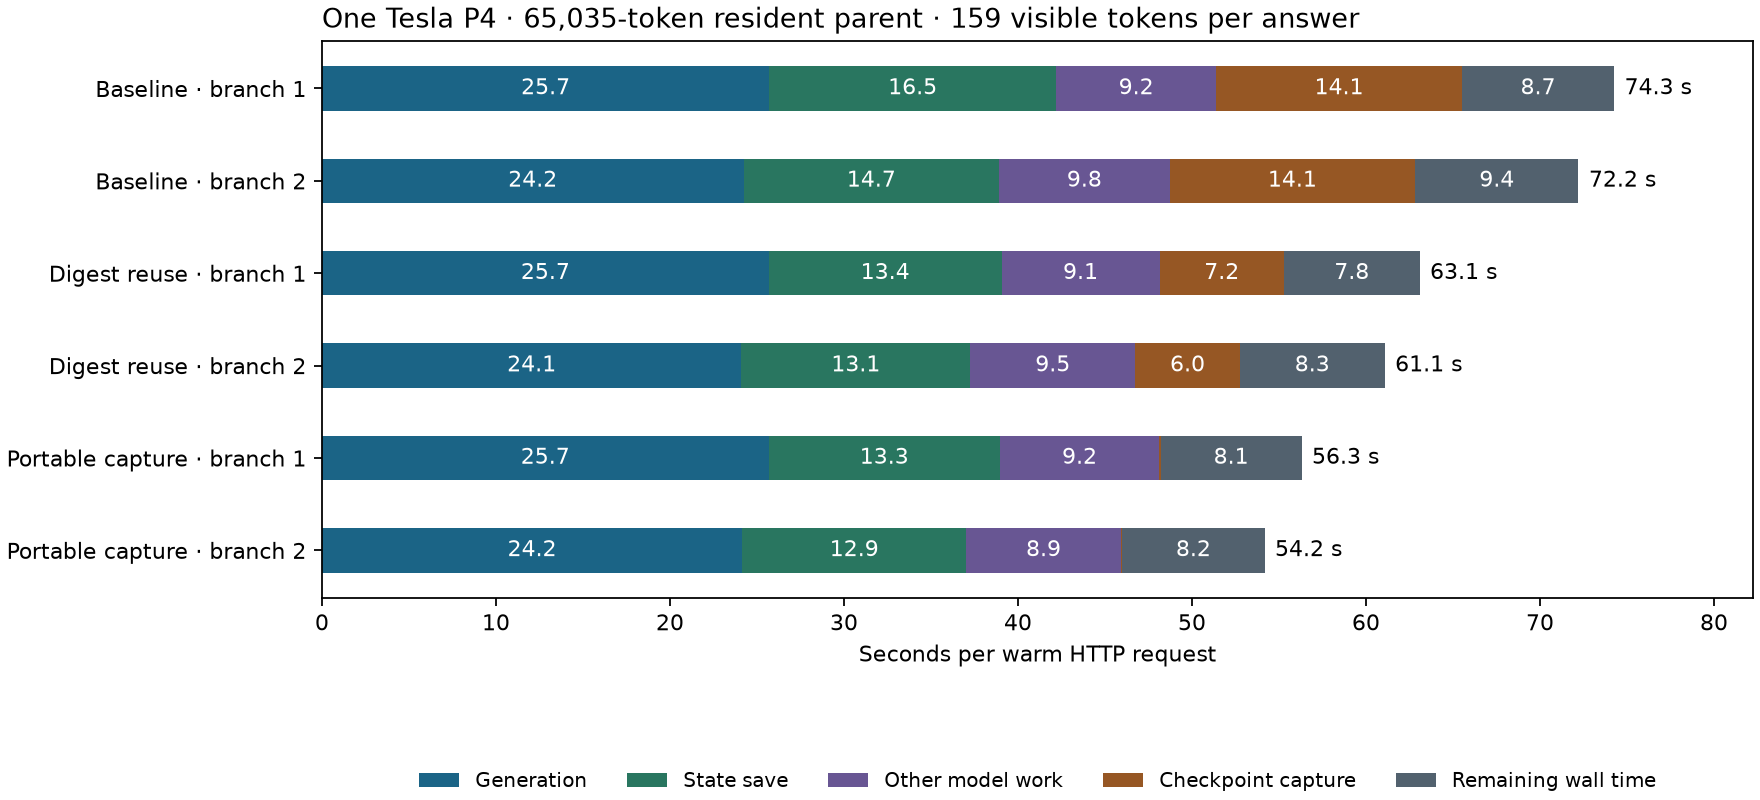
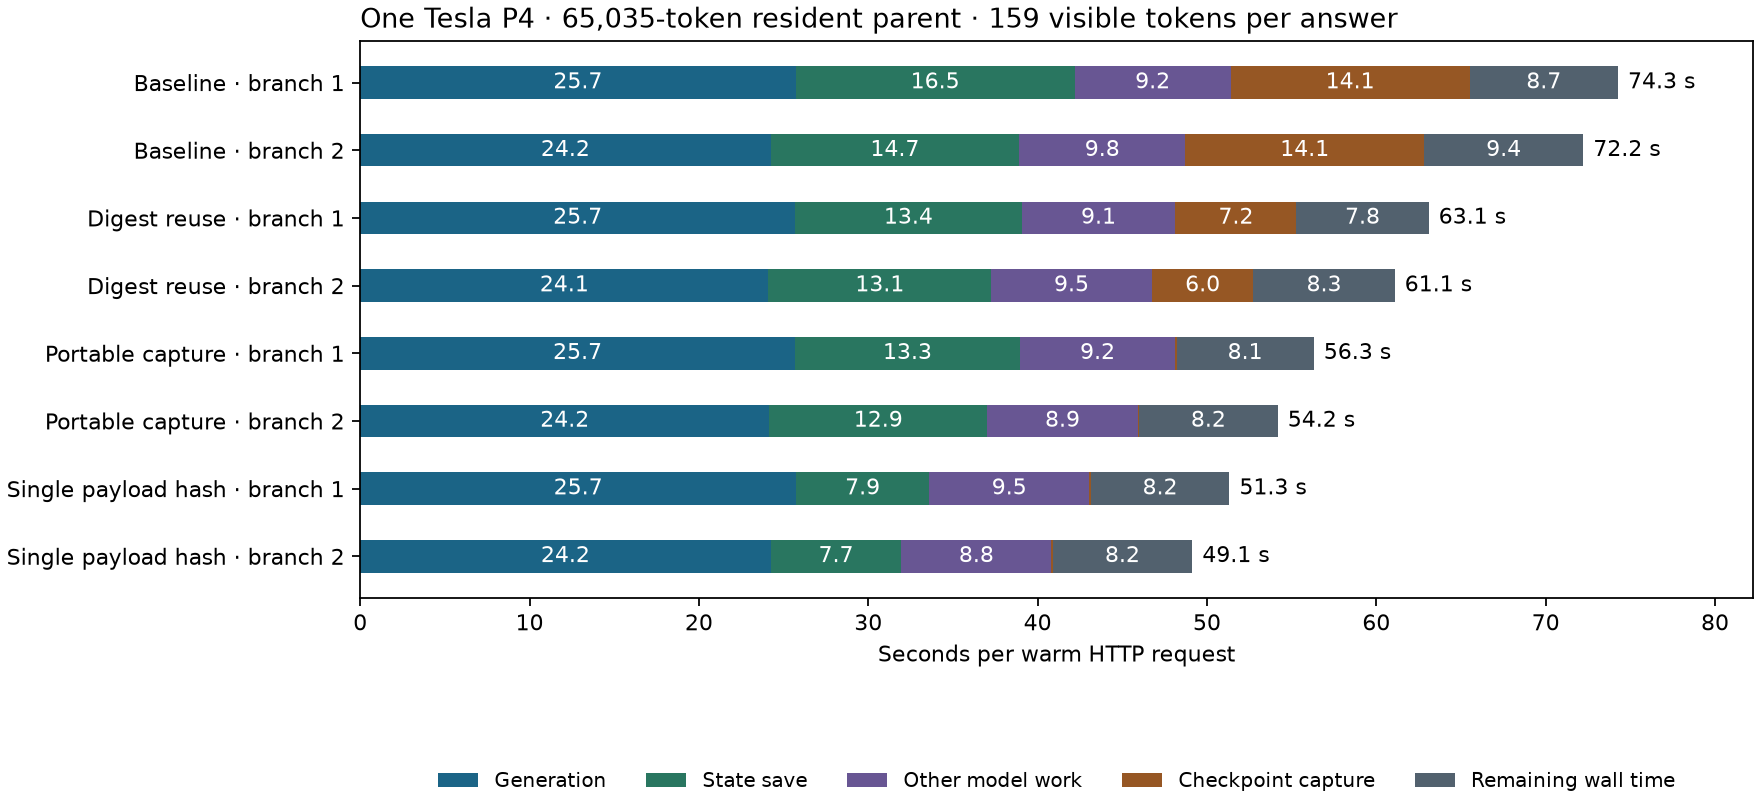
Measure five-second warm P4 request savings from single payload hash

diff --git a/docs/benchmarks/inkling/plot_p4_state_save.py b/docs/benchmarks/inkling/plot_p4_state_save.py
@@ -10,6 +10,7 @@ for filename, method in [
     ("p4-65k-state-save-http.csv", "Baseline"),
     ("p4-65k-owner-reuse-http.csv", "Digest reuse"),
     ("p4-65k-portable-save-http.csv", "Portable capture"),
+    ("p4-65k-checksum-save-http.csv", "Single payload hash"),
 ]:
     with (folder / filename).open() as stream:
         rows.extend(dict(row, method=method) for row in csv.DictReader(stream))
